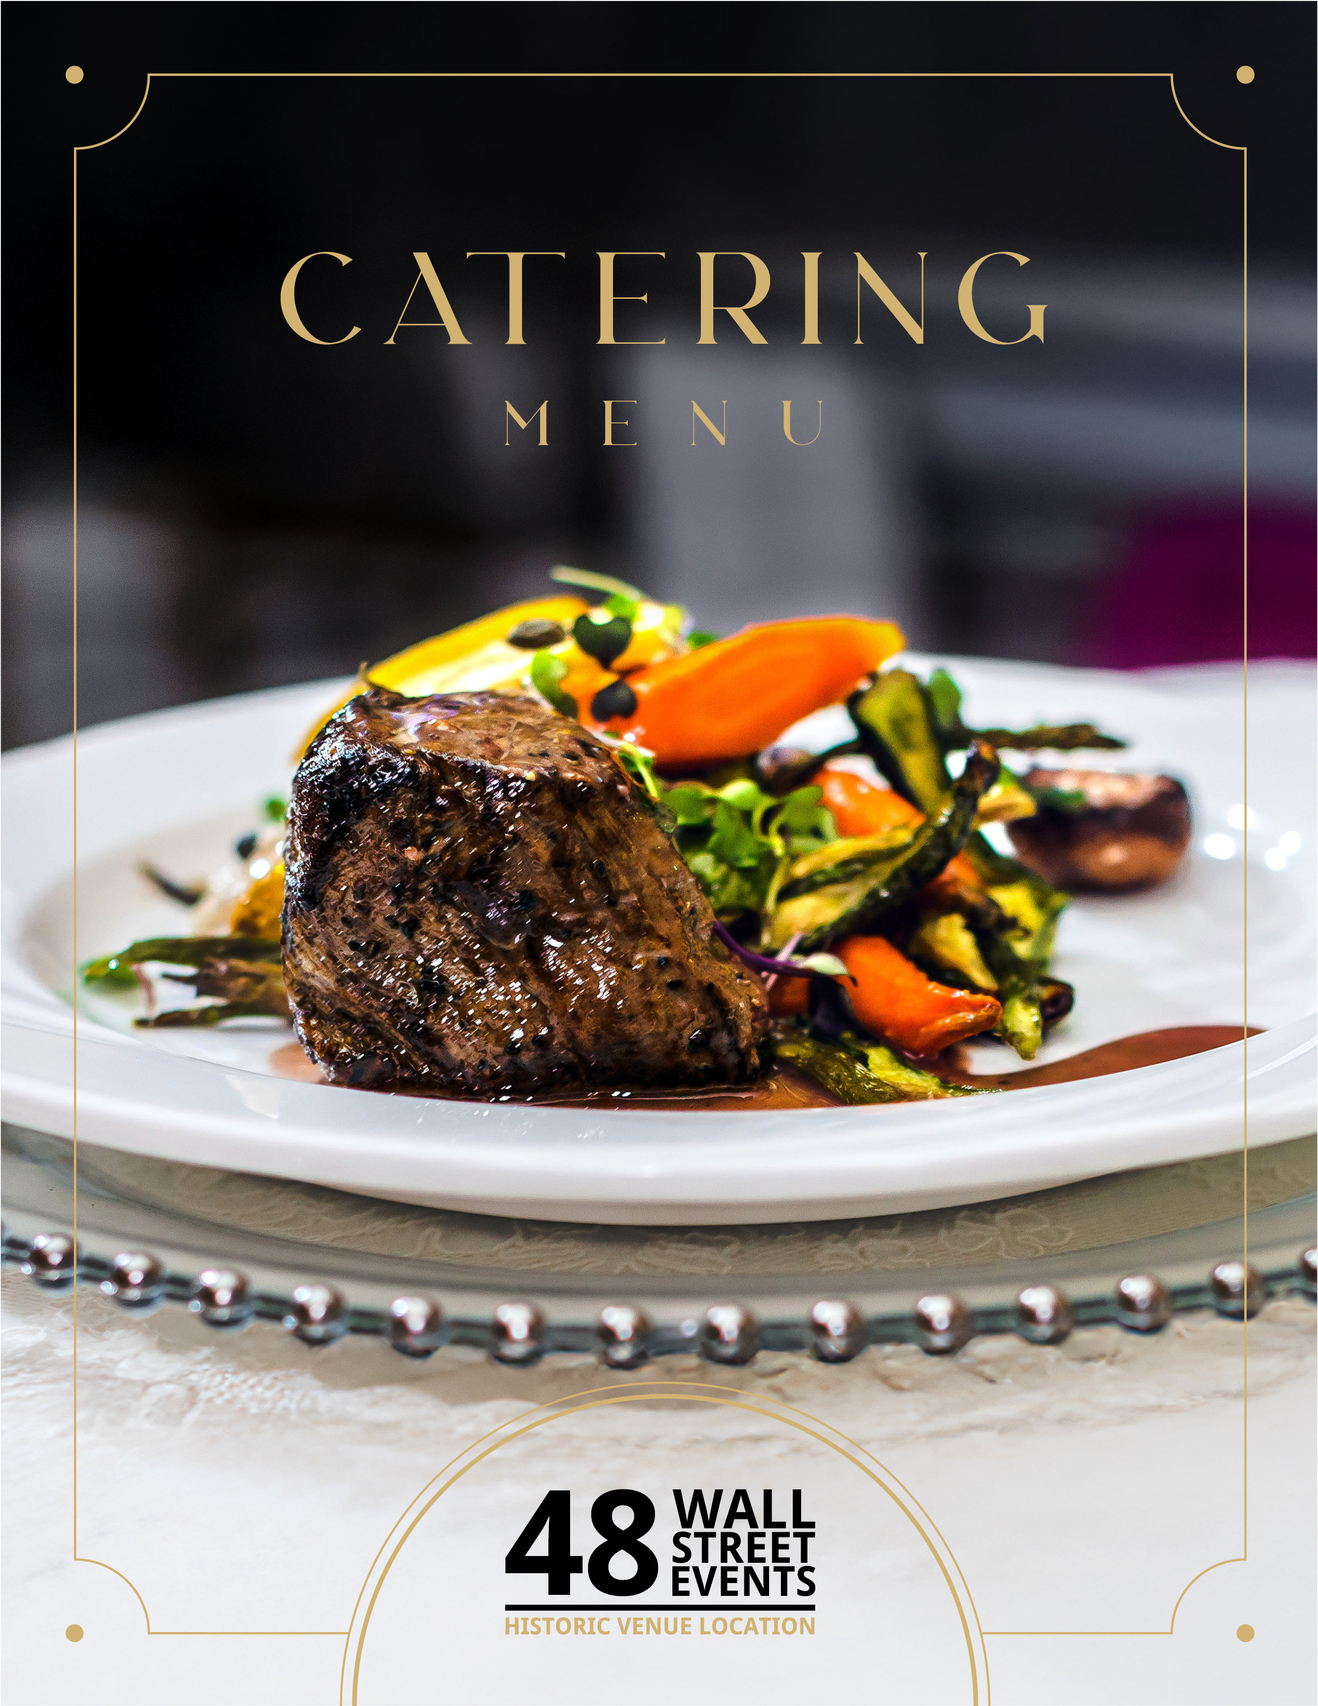
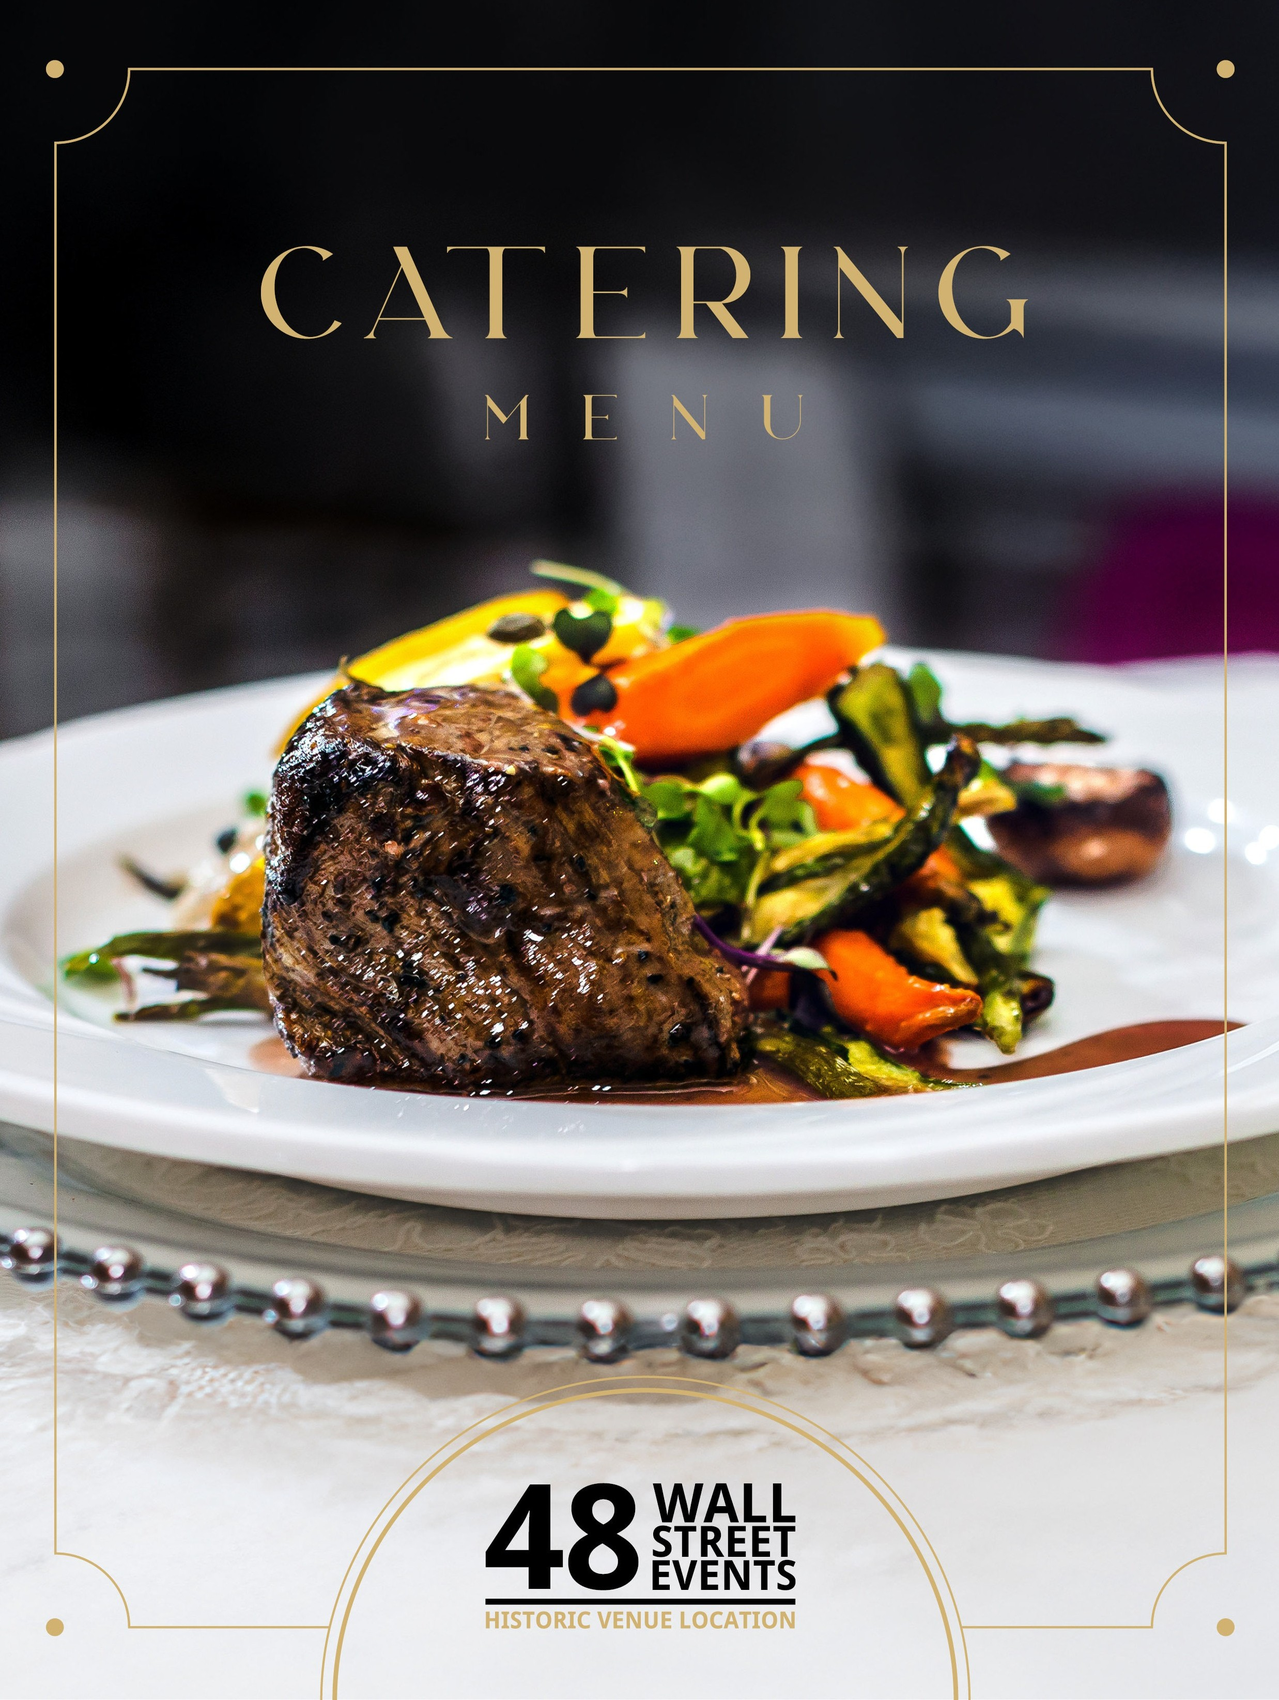
catering page completed

diff --git a/src/data/index.tsx b/src/data/index.tsx
@@ -2410,18 +2410,35 @@ export const eventProductionData = {
 
 export const eventCateringData = {
   title: 'Event Catering at 48 Wall Street',
-  subtitle: 'Thoughtful Dining in a Historic Financial District Setting',
-  leadTitle: 'Food That Matches the Occasion',
+  subtitle: 'Elevated Dining. Exceptional Hospitality.',
+  leadTitle: 'Culinary Experiences',
+  leadSubtitle: 'Elevated Dining. Exceptional Hospitality.',
   heroImage: '/videos/ec.mp4',
+  justifyLead: true,
   leadDescription:
-    "Good food is not a detail at an event. It is part of what people remember. At 48 Wall Street, our catering partner brings over 30 years of experience delivering exceptional dining for corporate events, galas, weddings, and private celebrations in Lower Manhattan. The culinary team builds menus around your event type, guest count, and preferences, whether that means a formal multi-course seated dinner, a generous cocktail reception with passed hors d'oeuvres, an energized buffet lunch for a full-day conference, or globally inspired food stations for an immersive evening. Service staff are trained to manage timing and presentation within the specific context of this historic venue so that the dining experience feels seamless rather than catered.",
+    "At 48 Wall Street, every menu is thoughtfully crafted to complement the sophistication of your event. In partnership with one of New York City's premier hospitality teams, we deliver refined culinary experiences as memorable as the venue itself.",
+  leadDescription2:
+    'From elegant plated dinners and elevated cocktail receptions to chef-curated tasting menus, immersive international food stations, executive breakfasts, and lavish gala banquets, every offering is customized to reflect your vision, brand, and guest experience. Using the finest seasonal ingredients and impeccable presentation, our culinary team creates dining experiences that seamlessly blend creativity, luxury, and exceptional service.',
+  leadDescription3:
+    'With more than three decades of experience serving distinguished corporate clients, nonprofit organizations, fashion houses, financial institutions, and luxury weddings throughout Lower Manhattan, our hospitality professionals understand that flawless execution extends far beyond the cuisine. Every course is carefully timed, every table meticulously presented, and every guest served with the highest level of professionalism.',
+  leadDescription4:
+    'At 48 Wall Street, dining is more than a meal. It is an unforgettable experience designed to leave a lasting impression.',
+  ctaTitle: "Let's Craft Something Extraordinary",
+  ctaDescription:
+    'At 48 Wall Street, we believe every event should be as distinctive as the people who host it. Our award-winning team combines exceptional hospitality, bespoke culinary experiences, immersive production, and timeless elegance to create celebrations that leave a lasting impression.\n\nSchedule a private consultation and discover the possibilities.',
+  ctaButtonLabel: 'Schedule a Consultation',
   sections: [
     {
-      id: 'seated-dinner',
-      title: 'Seated Dinners',
+      id: 'breakfast',
+      title: 'Breakfast',
+      subtitle: 'Elevate the Morning Experience',
       description:
-        'When hosting a formal dinner at 48 Wall Street, expect a dining experience that matches the grandeur of a historic NYC venue. The executive chef and culinary team will help you create a custom menu tailored to your specific tastes. Whether it is a fundraising gala or an executive banquet, we provide the sophisticated service required for a premier Financial District event venue.',
-      images: ['/catering/cd1.jpg', '/catering/cd2.jpg', '/catering/cd3.jpg'],
+        "Begin the day with a thoughtfully curated breakfast designed to inspire productivity, connection, and conversation. At 48 Wall Street, our culinary team transforms the traditional morning meal into an elevated dining experience, featuring artisanal pastries, seasonal fruits, chef-inspired breakfast specialties, gourmet coffee selections, fresh-pressed juices, and elegant hot breakfast presentations.\n\nWhether hosting an executive board meeting, investor summit, leadership conference, or company-wide gathering, our customized breakfast menus are crafted with the finest ingredients and impeccable presentation, ensuring every guest begins the day with exceptional hospitality in one of New York City's most iconic historic venues.",
+      images: [
+        '/catering/IMG_3248.jpg',
+        '/catering/20221020_093758.jpg',
+        '/catering/IMG_0242.jpg',
+      ],
       imageAlts: [
         'Catering display 1',
         'Catering display 2',
@@ -2429,10 +2446,24 @@ export const eventCateringData = {
       ],
     },
     {
-      id: 'cocktail-events',
-      title: 'Cocktail Events',
+      id: 'lunch',
+      title: 'Lunch',
+      subtitle: 'Elevate the Midday Experience',
       description:
-        "Hosting a reception at 48 Wall Street is a truly remarkable experience. Allow your guests to explore the extraordinary architecture of this unique event space in Lower Manhattan while sipping specialty cocktails and enjoying creative hors d'oeuvres. It is the perfect social setting for networking mixers or holiday toasts in a landmark Wall Street location.",
+        'Transform your luncheon into a memorable culinary occasion where exceptional cuisine meets impeccable hospitality. At 48 Wall Street, our chefs create seasonally inspired lunch menus that balance sophistication with flavor, featuring beautifully presented plated meals, executive buffets, interactive chef stations, globally inspired cuisine, and fresh market selections.\n\nWhether entertaining clients or hosting executive meetings, corporate conferences, nonprofit galas, or full-day summits, we thoughtfully tailor every lunch experience to your event. Paired with refined service and the timeless elegance of our historic venue, each menu is designed to energize your guests, encourage meaningful connections, and leave a lasting impression long after the final course.',
+      images: ['/catering/cl1.jpg', '/catering/cl2.jpg', '/catering/cl3.jpg'],
+      imageAlts: [
+        'Catering display 1',
+        'Catering display 2',
+        'Catering display 3',
+      ],
+    },
+    {
+      id: 'cocktail-reception',
+      title: 'Cocktail Reception ',
+      subtitle: 'Elevate the Cocktail Experience',
+      description:
+        "Celebrate in timeless style with a cocktail reception that blends exceptional cuisine, handcrafted cocktails, and refined hospitality. At 48 Wall Street, our culinary and beverage teams curate sophisticated receptions featuring artfully passed hors d'oeuvres, elegant chef-attended stations, premium charcuterie and seafood displays, seasonal small plates, and expertly crafted signature cocktails.\n\nWhether hosting a corporate reception, product launch, networking event, fashion show, gala, or wedding celebration, every cocktail experience is thoughtfully tailored to reflect your vision and impress your guests. Set against the iconic marble architecture and historic grandeur of 48 Wall Street, our white-glove service, premium bar program, and impeccable presentation create an atmosphere of effortless luxury, where every toast becomes part of an unforgettable evening.",
       images: [
         '/catering/cc1.jpg',
         '/catering/catering1.jpg',
@@ -2447,11 +2478,12 @@ export const eventCateringData = {
       ],
     },
     {
-      id: 'lunch',
-      title: 'Lunch',
+      id: 'seated-dinner',
+      title: 'Seated Dinners',
+      subtitle: 'An Elevated Fine Dining Experience',
       description:
-        'Executing a luncheon at 48 Wall Street is seamless with our trusted partners. We provide a myriad of options, including formal sit-down lunches, flexible buffets, or passed plates for networking hours. Our creative culinary team ensures that the food and beverage options keep your attendees energized and engaged throughout your event.',
-      images: ['/catering/cl1.jpg', '/catering/cl2.jpg', '/catering/cl3.jpg'],
+        "Celebrate life's most memorable occasions with an elegant seated dining experience crafted to impress. At 48 Wall Street, every course is thoughtfully prepared using the finest seasonal ingredients and presented with impeccable attention to detail. From intimate executive dinners and black-tie galas to luxury weddings and charitable celebrations, our culinary team creates bespoke multi-course menus paired with exceptional wines and white-glove service. Surrounded by the timeless grandeur of our historic venue, every dinner becomes an unforgettable expression of sophistication and hospitality.",
+      images: ['/catering/cd1.jpg', '/catering/cd2.jpg', '/catering/cd3.jpg'],
       imageAlts: [
         'Catering display 1',
         'Catering display 2',
@@ -2459,15 +2491,12 @@ export const eventCateringData = {
       ],
     },
     {
-      id: 'breakfast',
-      title: 'Breakfast',
+      id: 'curated-dining-stations',
+      title: 'Curated Dining Stations',
+      subtitle: 'Interactive Culinary Experiences',
       description:
-        'Start your day right with exceptional breakfast catering services at your meeting space on Wall Street. From light continental spreads to full hot breakfast buffets, we provide morning dining solutions that set the tone for successful corporate meetings and summits.',
-      images: [
-        '/catering/IMG_3248.jpg',
-        '/catering/20221020_093758.jpg',
-        '/catering/IMG_0242.jpg',
-      ],
+        'Redefine traditional dining with a collection of beautifully designed chef-attended culinary stations that encourage guests to explore, engage, and indulge. From premium carving stations and fresh seafood displays to handcrafted pasta, global cuisine, artisan charcuterie, and decadent dessert presentations, each station is thoughtfully curated to deliver an immersive dining experience.\n\nPerfect for corporate receptions, luxury galas, weddings, and social celebrations, our interactive culinary experiences combine exceptional cuisine with elegant presentation, creating a vibrant atmosphere that inspires conversation and unforgettable moments.',
+      images: ['/catering/cd1.jpg', '/catering/cd2.jpg', '/catering/cd3.jpg'],
       imageAlts: [
         'Catering display 1',
         'Catering display 2',
@@ -2476,7 +2505,10 @@ export const eventCateringData = {
     },
   ],
   videoSection: {
-    title: 'Sneak Peek Video',
+    title: 'The Art of Exceptional Dining',
+    subtitle: 'Where Culinary Excellence Becomes an Unforgettable Experience.',
+    description:
+      "Every unforgettable event deserves an equally unforgettable culinary experience. Our award-winning chefs and hospitality professionals create refined menus that celebrate craftsmanship, innovation, and impeccable service. Whether hosting a corporate gala, luxury wedding, fundraising event, or private celebration, each dish is designed to elevate your guests' experience while complementing the grandeur of our historic venue.",
     embedUrl: 'https://player.vimeo.com/video/1066736672?h=044c19c168',
     thumbnail: '/service/catering-video-screen-shot.jpg',
   },

diff --git a/src/components/ServicesShowcase.tsx b/src/components/ServicesShowcase.tsx
@@ -8,20 +8,34 @@ import { ServiceSection } from '@/types';
 import ServiceSectionItem from './ServiceSectionItem';
 import CustomButton from './CustomButton';
 import Link from 'next/link';
+import { renderMultiline } from '@/utils';
 
 type Props = {
   title: string;
   subtitle: string;
   heroImage: string;
   leadTitle: string;
+  leadSubtitle?: string;
   leadDescription: string;
   leadDescription2?: string;
   leadDescription3?: string;
+  leadDescription4?: string;
+  justifyLead?: boolean;
   sections: ServiceSection[];
   logoImage?: string;
   logoLink?: string;
-  videoSection?: { title: string; embedUrl: string; thumbnail: string };
+  videoSection?: {
+    title: string;
+    embedUrl: string;
+    thumbnail: string;
+    eyebrow?: string;
+    subtitle?: string;
+    description?: string;
+  };
   menu?: boolean;
+  ctaTitle?: string;
+  ctaDescription?: string;
+  ctaButtonLabel?: string;
 };
 
 export default function CinematicServicesShowcase({
@@ -29,14 +43,20 @@ export default function CinematicServicesShowcase({
   subtitle,
   heroImage,
   leadTitle,
+  leadSubtitle,
   leadDescription,
   leadDescription2,
   leadDescription3,
+  leadDescription4,
+  justifyLead = false,
   sections,
   logoImage,
   logoLink,
   videoSection,
   menu = false,
+  ctaTitle = 'Ready to Plan Your Event?',
+  ctaDescription = 'Let our expert team bring your vision to life from design to production to unforgettable moments.',
+  ctaButtonLabel = 'Contact US',
 }: Props) {
   const containerRef = useRef<HTMLDivElement | null>(null);
   const videoRef = useRef<HTMLVideoElement | null>(null);
@@ -204,15 +224,39 @@ export default function CinematicServicesShowcase({
             transition={{ duration: 0.9 }}
             className="mx-auto max-w-5xl"
           >
-            <h2 className="font-primary text-primary mb-8 text-[3rem] leading-tight uppercase md:text-[3.6rem]">
+            <h2 className="font-primary text-primary mb-4 text-[3rem] leading-tight uppercase md:text-[3.6rem]">
               {leadTitle}
             </h2>
-            <p className="text-lead mb-2 text-gray-500">{leadDescription}</p>
+            {leadSubtitle && (
+              <p className="text-lead mb-8 text-gray-400">
+                {renderMultiline(leadSubtitle)}
+              </p>
+            )}
+            <p
+              className={`text-lead mb-4 text-gray-500 ${justifyLead ? 'text-justify' : ''}`}
+            >
+              {renderMultiline(leadDescription)}
+            </p>
             {leadDescription2 && (
-              <p className="text-lead mb-2 text-gray-500">{leadDescription2}</p>
+              <p
+                className={`text-lead mb-4 text-gray-500 ${justifyLead ? 'text-justify' : ''}`}
+              >
+                {renderMultiline(leadDescription2)}
+              </p>
             )}
             {leadDescription3 && (
-              <p className="text-lead mb-2 text-gray-500">{leadDescription3}</p>
+              <p
+                className={`text-lead mb-4 text-gray-500 ${justifyLead ? 'text-justify' : ''}`}
+              >
+                {renderMultiline(leadDescription3)}
+              </p>
+            )}
+            {leadDescription4 && (
+              <p
+                className={`text-lead mb-4 text-gray-500 ${justifyLead ? 'text-justify' : ''}`}
+              >
+                {renderMultiline(leadDescription4)}
+              </p>
             )}
           </motion.div>
         </div>
@@ -280,7 +324,7 @@ export default function CinematicServicesShowcase({
 
       {/* VIDEO SECTION CTA (if provided) */}
       {videoSection && (
-        <section className="bg-white py-12 lg:py-20">
+        <section className="bg-[#f5f5f5] py-12 lg:py-20">
           <div className="container mx-auto px-6 lg:px-20">
             <motion.div
               initial={{ opacity: 0, y: 18 }}
@@ -289,12 +333,21 @@ export default function CinematicServicesShowcase({
               transition={{ duration: 0.9 }}
               className="mx-auto max-w-4xl text-center"
             >
-              <h4
-                className="heading-hero"
-                style={{ color: 'var(--color-gray-900)' }}
-              >
+              {videoSection.eyebrow && (
+                <p className="font-secondary text-primary mb-4 text-sm tracking-[0.3em] uppercase">
+                  {videoSection.eyebrow}
+                </p>
+              )}
+
+              <h4 className="heading-hero text-primary mb-4">
                 {videoSection.title}
               </h4>
+
+              {videoSection.subtitle && (
+                <p className="text-lead mb-10 text-gray-400">
+                  {renderMultiline(videoSection.subtitle)}
+                </p>
+              )}
 
               <div
                 className="relative mx-auto aspect-video max-w-4xl cursor-pointer overflow-hidden rounded-xl"
@@ -330,6 +383,12 @@ export default function CinematicServicesShowcase({
                   </div>
                 </div>
               </div>
+
+              {videoSection.description && (
+                <p className="text-lead mt-10 text-justify text-gray-500">
+                  {renderMultiline(videoSection.description)}
+                </p>
+              )}
             </motion.div>
           </div>
 
@@ -373,16 +432,15 @@ export default function CinematicServicesShowcase({
             viewport={{ once: true }}
             transition={{ duration: 0.9 }}
           >
-            <h3 className="font-primary mb-4 text-3xl font-bold text-white uppercase md:text-4xl lg:text-5xl">
-              Ready to Plan Your Event?
+            <h3 className="font-primary text-primary mb-4 text-3xl font-bold tracking-wider uppercase md:text-4xl lg:text-5xl">
+              {ctaTitle}
             </h3>
-            <p className="text-lead mb-8 max-w-2xl text-gray-200">
-              Let our expert team bring your vision to life — from design to
-              production to unforgettable moments.
+            <p className="text-lead mx-auto mb-8 max-w-2xl text-gray-200">
+              {renderMultiline(ctaDescription)}
             </p>
 
             <Link href="/contact">
-              <CustomButton>Contact US</CustomButton>
+              <CustomButton>{ctaButtonLabel}</CustomButton>
             </Link>
           </motion.div>
         </div>

diff --git a/src/components/ServiceSectionItem.tsx b/src/components/ServiceSectionItem.tsx
@@ -3,6 +3,7 @@ import React, { useRef, useEffect, useState } from 'react';
 import { motion, Variants } from 'framer-motion';
 import Image from 'next/image';
 import { ServiceSection } from '@/types';
+import { renderMultiline } from '@/utils';
 
 export default function ServiceSectionItem({
   section,
@@ -106,13 +107,19 @@ export default function ServiceSectionItem({
           >
             <h3
               id={`panel-${section.id}`}
-              className="font-primary mb-4 text-[2rem] leading-tight uppercase md:text-[2.6rem]"
+              className="font-primary text-primary mb-3 text-[2rem] leading-tight uppercase md:text-[2.6rem]"
             >
               {section.title}
             </h3>
 
+            {section.subtitle && (
+              <p className="text-lead mb-4 text-gray-400">
+                {renderMultiline(section.subtitle)}
+              </p>
+            )}
+
             <p className="text-lead mb-4 text-gray-500">
-              {section.description}
+              {renderMultiline(section.description)}
             </p>
 
             <div className="text-primary font-secondary flex items-center gap-4">

diff --git a/src/utils/index.tsx b/src/utils/index.tsx
@@ -10,6 +10,25 @@ import {
 import CustomButton from '@/components/CustomButton';
 import { X } from 'lucide-react';
 
+/**
+ * Renders a string that may contain line breaks expressed as either `\n`
+ * (real or literal "\n") or HTML break tags (`<br>`, `<br/>`, `<br />`) into
+ * React nodes, inserting a real <br /> at each break. Empty segments between
+ * consecutive breaks are preserved so multi-line spacing stays intact.
+ */
+export const renderMultiline = (text?: string): React.ReactNode => {
+  if (!text) return null;
+
+  const lines = text.split(/\r\n|\r|\n|\\n|<br\s*\/?>/i);
+
+  return lines.map((line, i) => (
+    <React.Fragment key={i}>
+      {line}
+      {i < lines.length - 1 && <br />}
+    </React.Fragment>
+  ));
+};
+
 export const useParallax = (offset: [string, string] = ['0%', '-20%']) => {
   const ref = useRef<HTMLDivElement>(null);
   const { scrollYProgress } = useScroll({

diff --git a/src/components/EventDetails.tsx b/src/components/EventDetails.tsx
@@ -74,9 +74,13 @@ export default function EventDetails({
               )}
               <SoftFadeIn delay={0.1} immediate>
                 <div className="text-lead space-y-4">
-                  {description.split('</br>').map((line, index) => (
-                    <p key={index}>{line}</p>
-                  ))}
+                  {description
+                    .split(/\r\n|\r|\n|\\n|<\/?br\s*\/?>/i)
+                    .map((line) => line.trim())
+                    .filter((line) => line.length > 0)
+                    .map((line, index) => (
+                      <p key={index}>{line}</p>
+                    ))}
                 </div>
               </SoftFadeIn>
 

diff --git a/src/types/index.ts b/src/types/index.ts
@@ -25,6 +25,7 @@ export interface Photo {
 export type ServiceSection = {
   id: string;
   title: string;
+  subtitle?: string;
   description: string;
   images: string[];
   imageAlts: string[];
